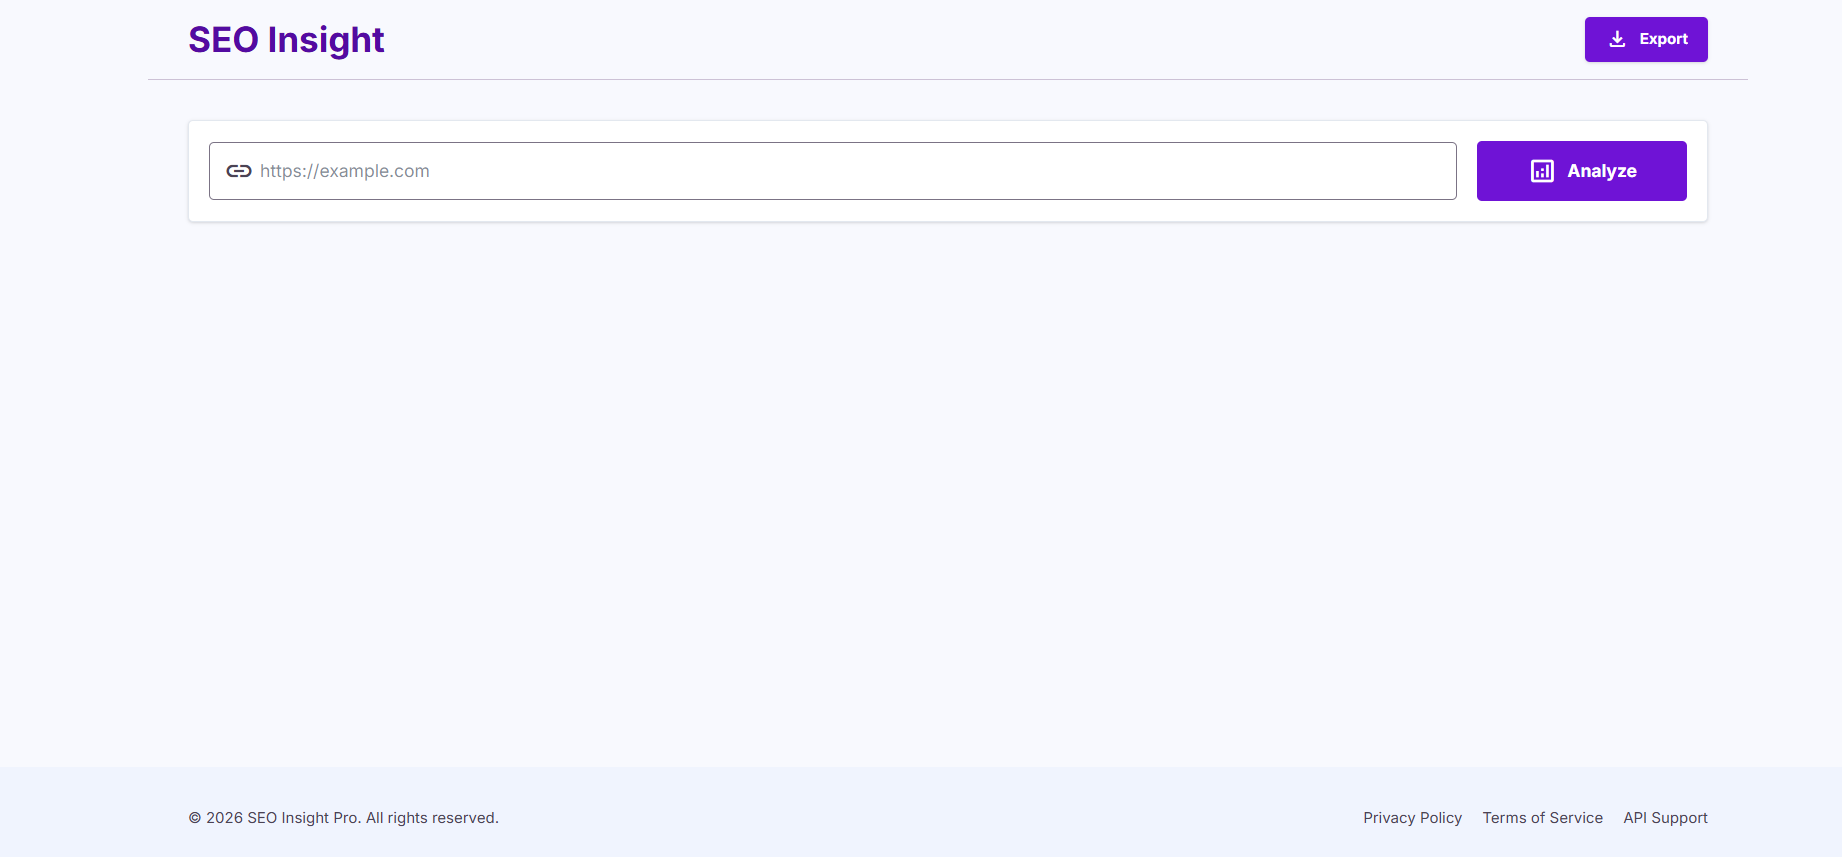
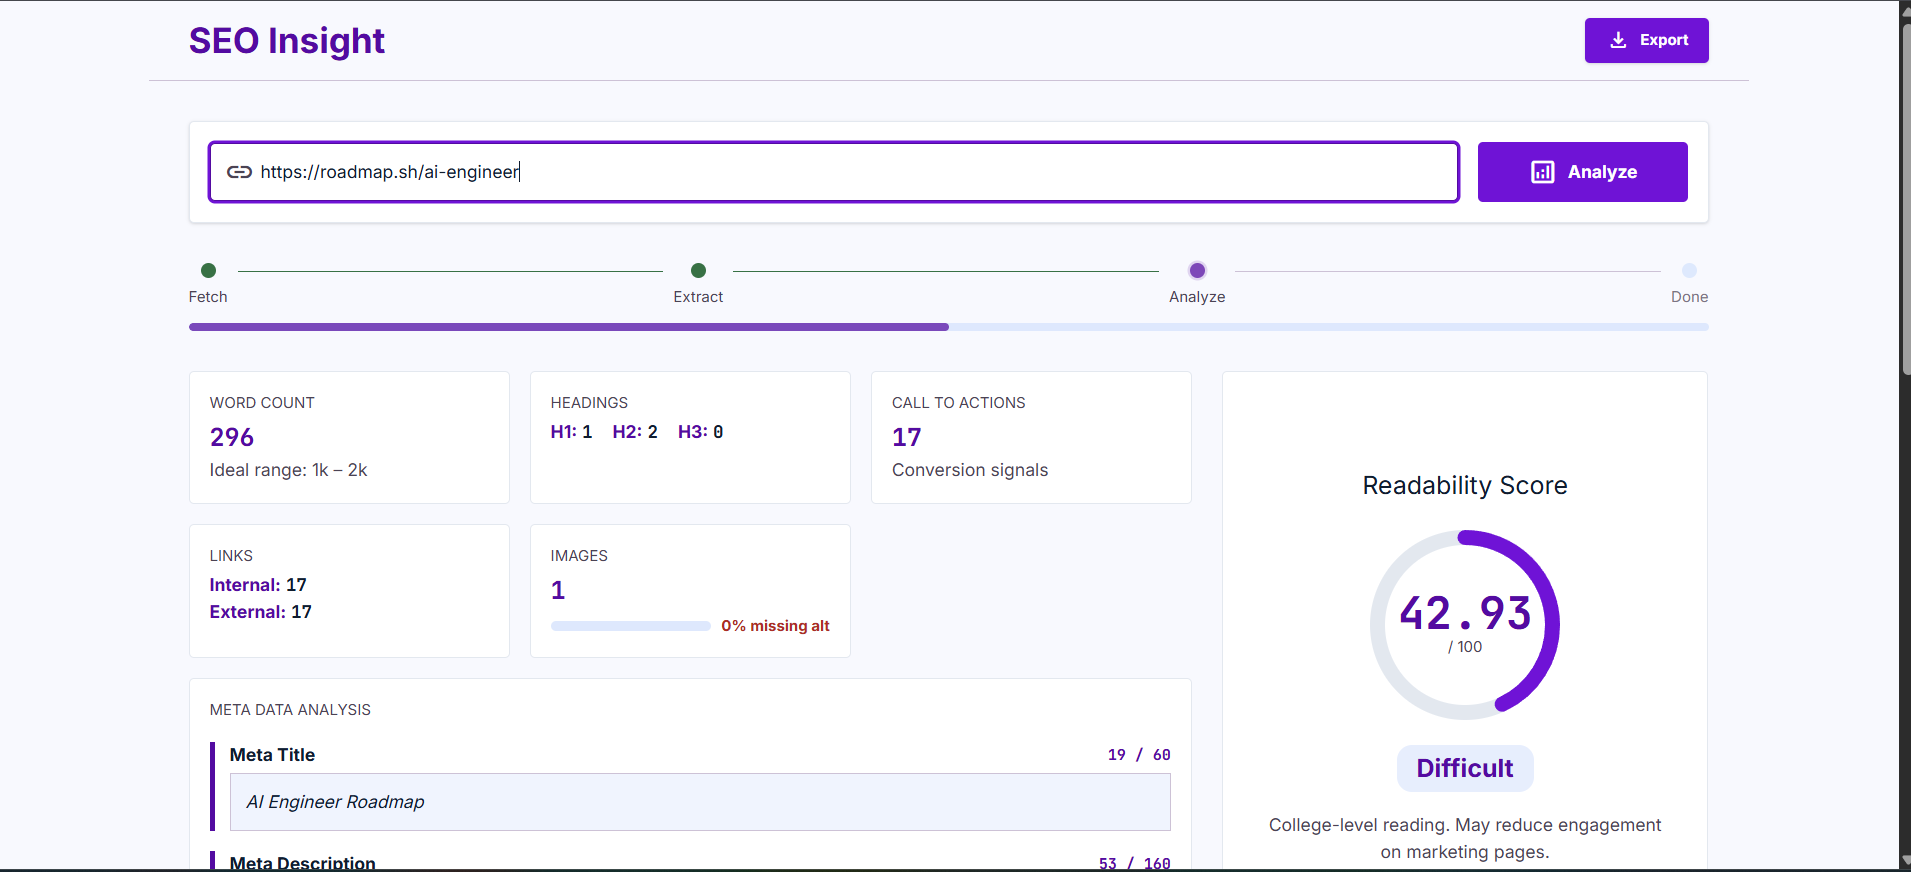
Feat: updated

diff --git a/src/data/portfolioData.js b/src/data/portfolioData.js
@@ -90,6 +90,7 @@ export const portfolioData = {
       techStack: ["Python", "FastAPI", "BeautifulSoup4", "React", "Google Gemini API", "Stitch", "Railway"],
       image: "assets/AI-Powered Website Audit Tool.png",
       githubUrl: "https://github.com/Suhira30/Eight25-Assignment.git",
+      frontendUrl: "https://web-audit-assignment-suhi.vercel.app/",
       featured: true,
       metrics: "Google Gemini API, Scraper Pipeline & Railway Deployment"
     },

diff --git a/app.js b/app.js
@@ -90,6 +90,7 @@ const portfolioData = {
       techStack: ["Python", "FastAPI", "BeautifulSoup4", "React", "Google Gemini API", "Stitch", "Railway"],
       image: "assets/AI-Powered Website Audit Tool.png",
       githubUrl: "https://github.com/Suhira30/Eight25-Assignment.git",
+      frontendUrl: "https://web-audit-assignment-suhi.vercel.app/",
       featured: true,
       metrics: "Google Gemini API, Scraper Pipeline & Railway Deployment"
     },

diff --git a/index.html b/index.html
@@ -1300,6 +1300,5 @@
     </footer>
 
     <!-- Scripts -->
-    <script src="app.js?v=2.1"></script>
-  </body>
+    <script src="app.js?v=2.2"></script>
 </html>
